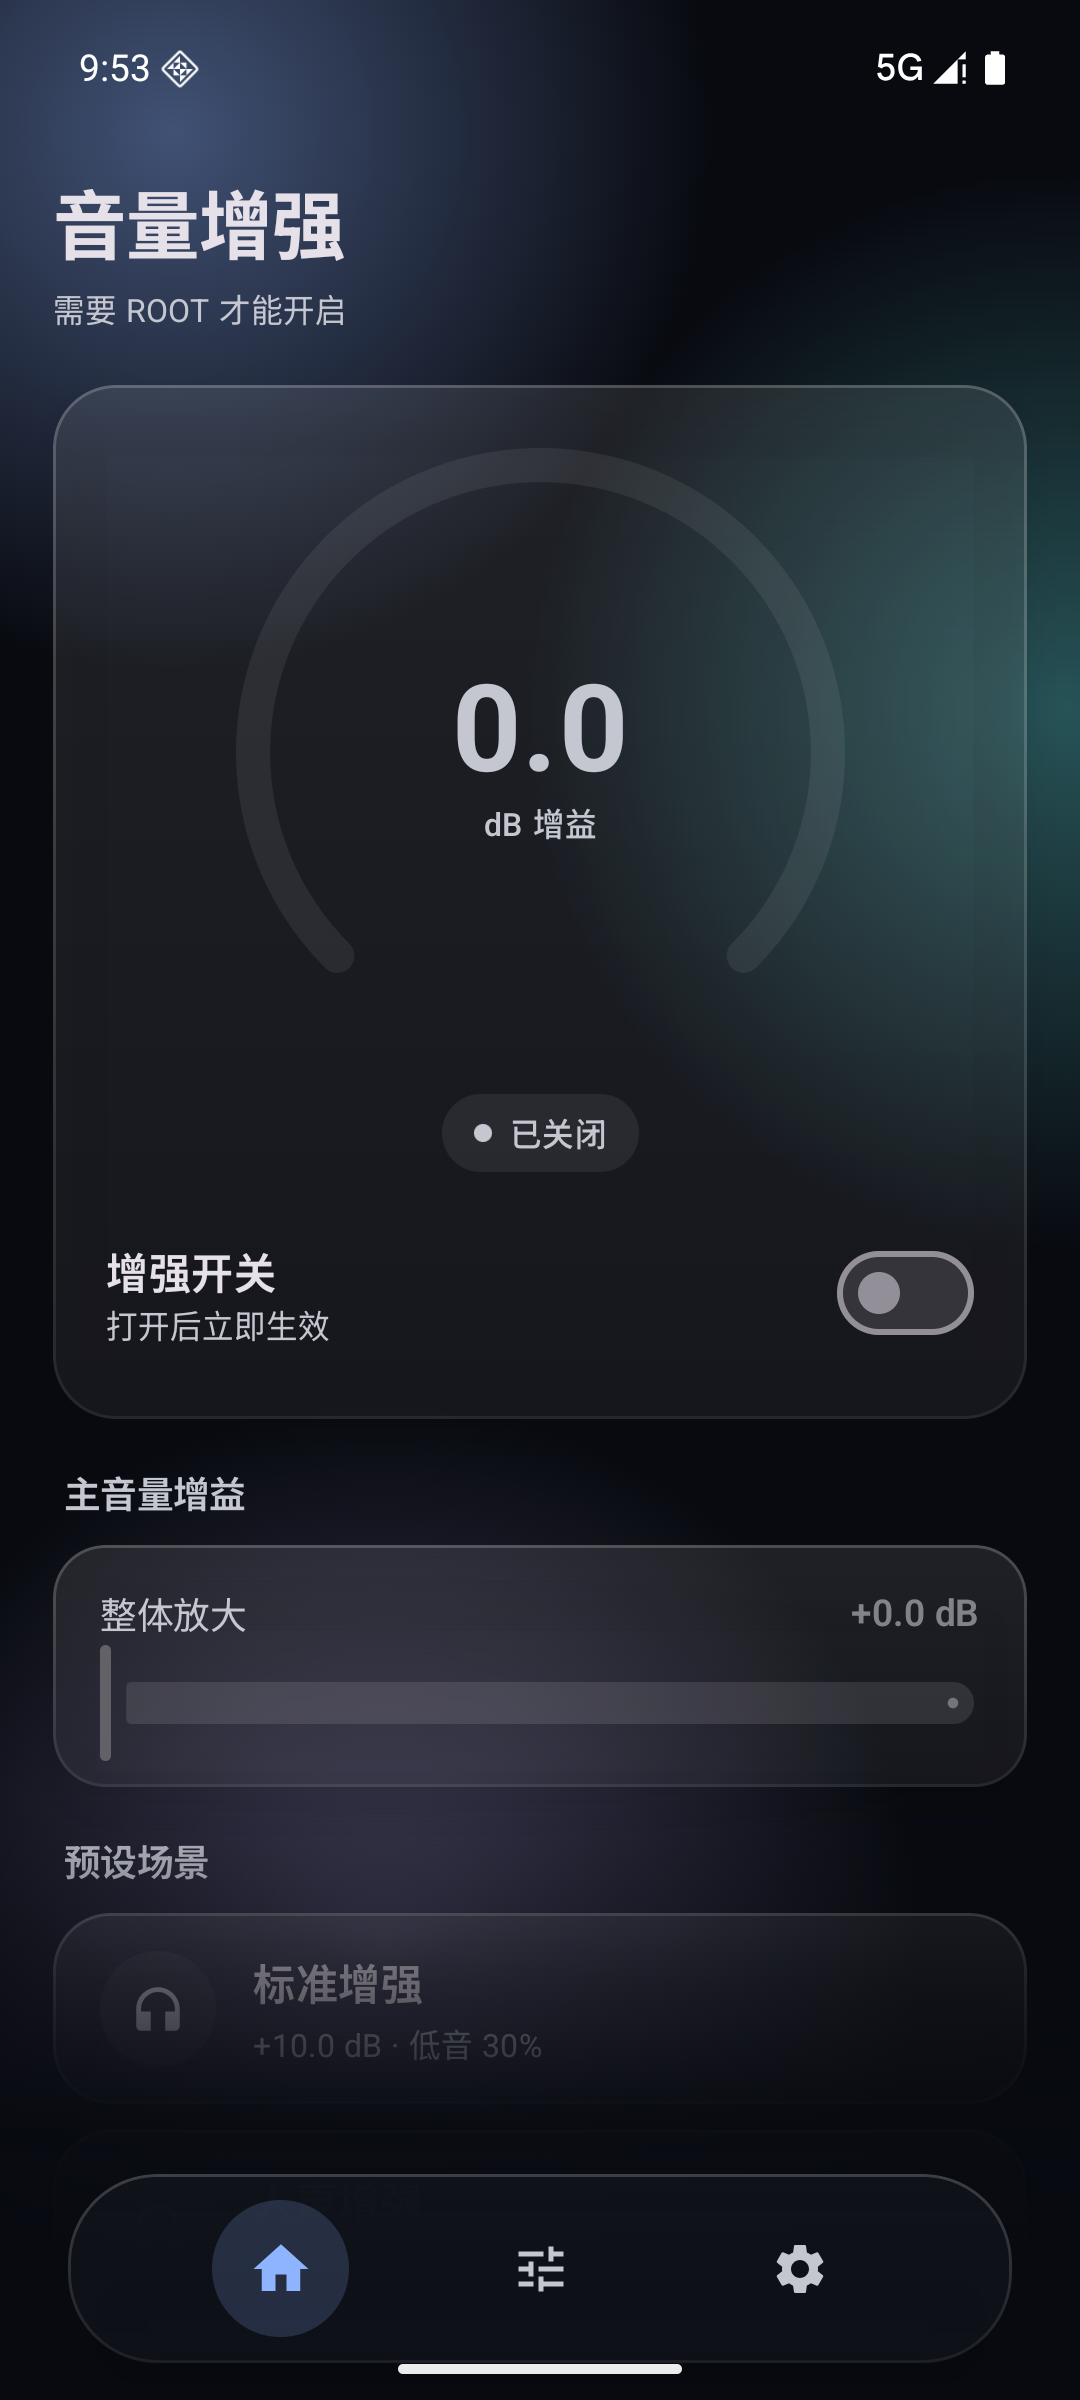
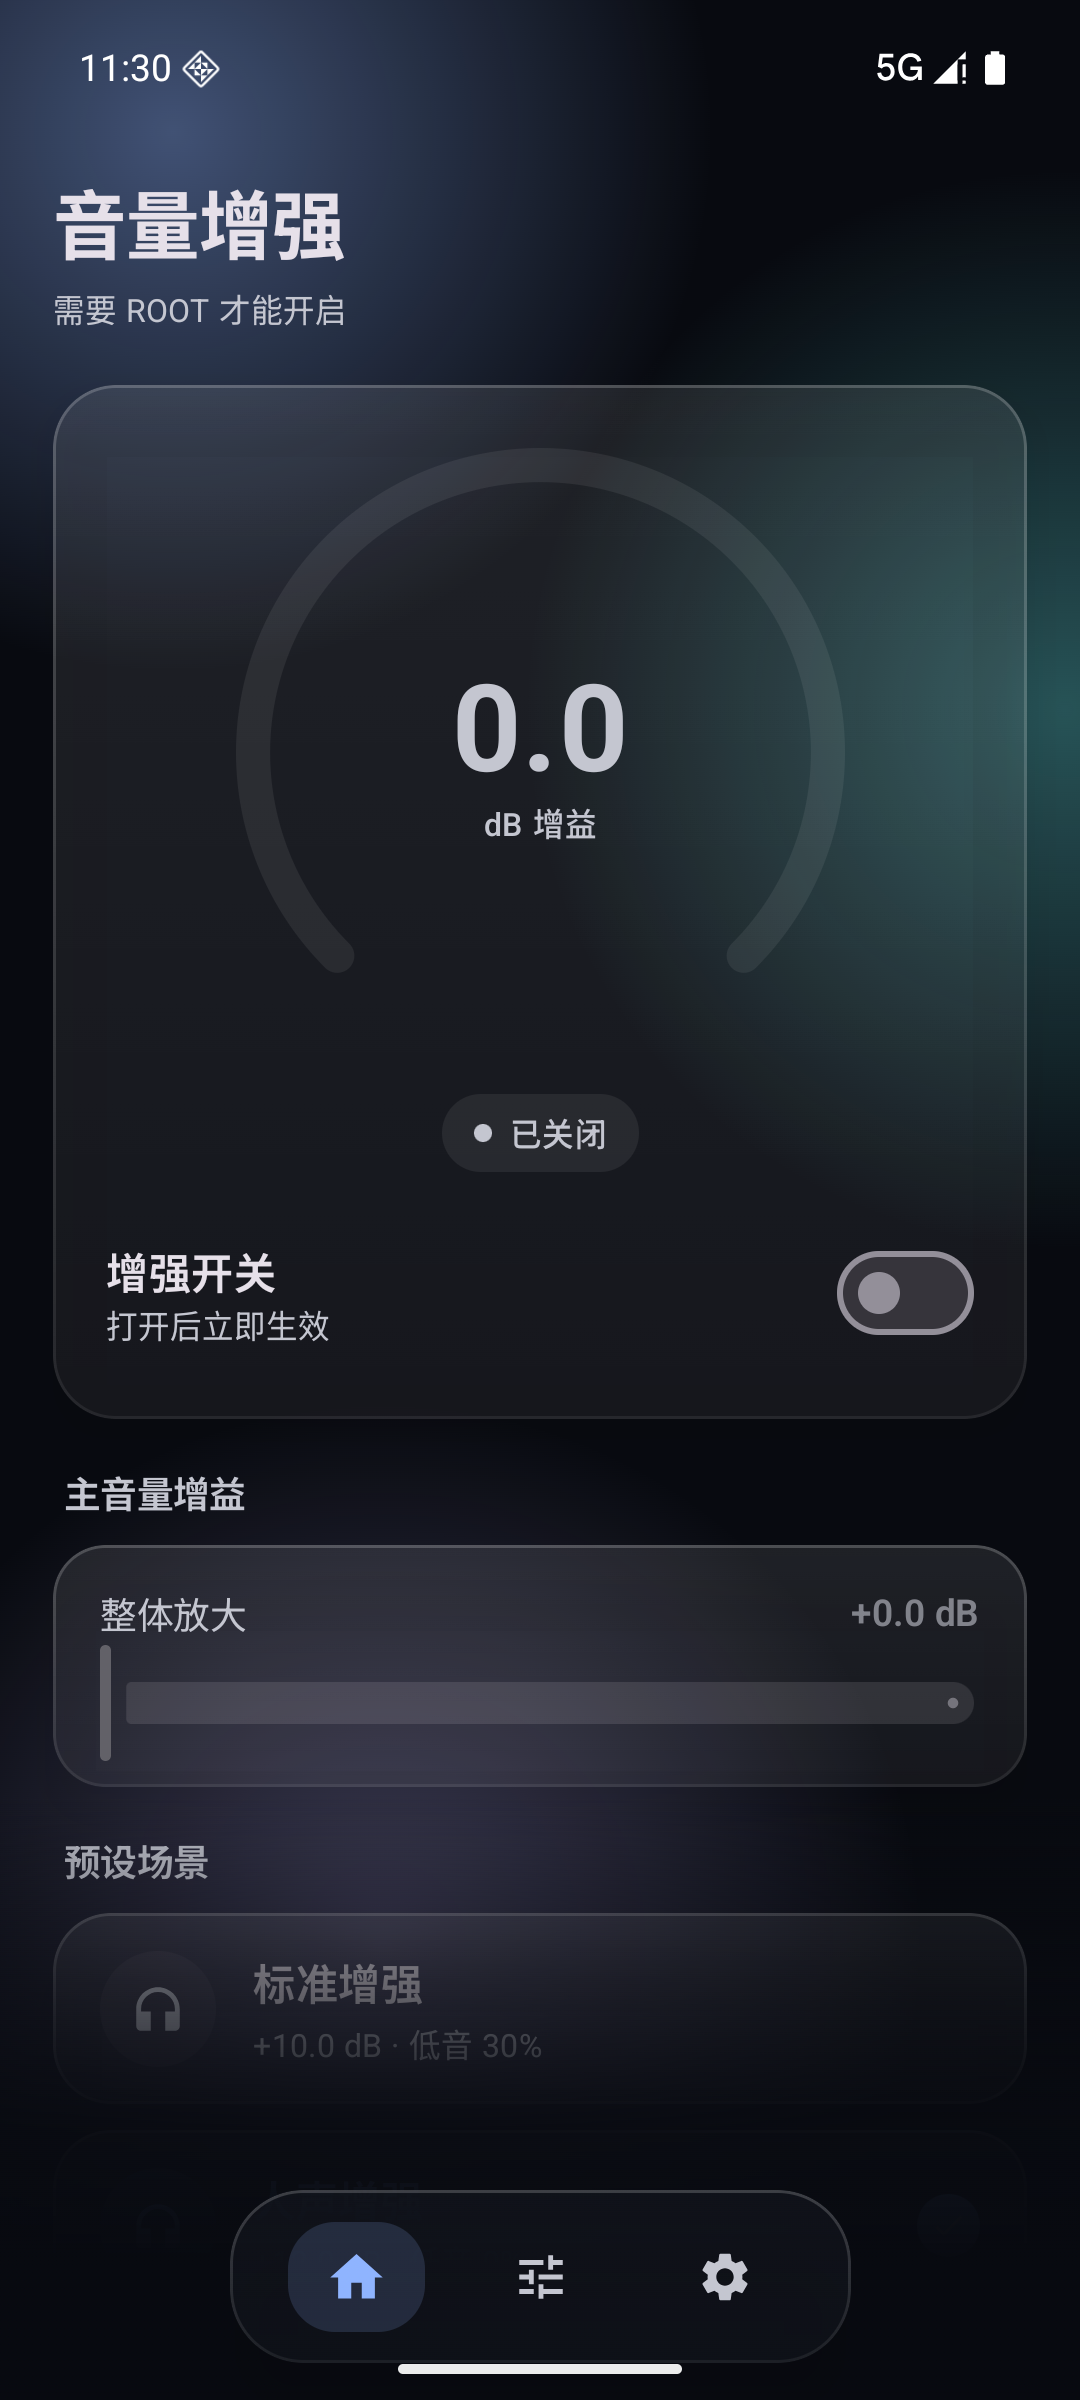
feat: Dock 收窄为胶囊选中态，扩大点击热区并拦截穿透触摸

diff --git a/app/src/main/java/com/volumeboost/app/ui/App.kt b/app/src/main/java/com/volumeboost/app/ui/App.kt
@@ -9,6 +9,7 @@ import androidx.compose.foundation.Canvas
 import androidx.compose.foundation.background
 import androidx.compose.foundation.border
 import androidx.compose.foundation.clickable
+import androidx.compose.foundation.gestures.detectTapGestures
 import androidx.compose.foundation.isSystemInDarkTheme
 import androidx.compose.foundation.layout.Arrangement
 import androidx.compose.foundation.layout.Box
@@ -87,6 +88,7 @@ import androidx.compose.ui.layout.onGloballyPositioned
 import androidx.compose.ui.layout.positionInRoot
 import androidx.compose.ui.platform.LocalDensity
 import androidx.compose.ui.platform.LocalLayoutDirection
+import androidx.compose.ui.input.pointer.pointerInput
 import androidx.compose.ui.text.font.FontFamily
 import androidx.compose.ui.text.font.FontWeight
 import androidx.compose.ui.text.style.TextAlign
@@ -321,12 +323,15 @@ private fun GlassDock(
     selected: Tab,
     onSelect: (Tab) -> Unit,
 ) {
-    val shape = RoundedCornerShape(34.dp)
+    // 外层圆角 28dp，内部选中态胶囊用 16dp 圆角 —— 二者同一套圆角语言，不会出现「圆角框里套一个正圆」
+    val shape = RoundedCornerShape(28.dp)
 
     Row(
         modifier
             .padding(horizontal = 26.dp, vertical = 14.dp)
-            .fillMaxWidth()
+            // 触摸拦截层：正好覆盖整块玻璃（含图标之间的空隙），空白处也吞掉点击，
+            // 不会穿透到底下的开关/预设卡片。子项 clickable 先消费事件，父层只兜底。
+            .pointerInput(Unit) { detectTapGestures { } }
             .glass(
                 shape = shape,
                 fillTop = 0.78f,
@@ -337,8 +342,8 @@ private fun GlassDock(
                 darkScale = 0.90f,
                 darkTint = Color(0xFF12151D),
             )
-            .padding(horizontal = 8.dp, vertical = 10.dp),
-        horizontalArrangement = Arrangement.SpaceEvenly,
+            .padding(horizontal = 14.dp, vertical = 7.dp),
+        horizontalArrangement = Arrangement.spacedBy(2.dp),
         verticalAlignment = Alignment.CenterVertically,
     ) {
         Tab.entries.forEach { item ->
@@ -351,7 +356,10 @@ private fun GlassDock(
     }
 }
 
-/** 纯图标 Dock：尺寸固定，没有文字，就不会被文字撑高、也不会留空 */
+/**
+ * 纯图标 Dock：尺寸固定，没有文字，就不会被文字撑高、也不会留空。
+ * 点击热区（68×52）明显大于视觉胶囊（52×42），不用瞄准也能点中。
+ */
 @Composable
 private fun DockItem(tab: Tab, selected: Boolean, onClick: () -> Unit) {
     val sel by animateFloatAsState(
@@ -364,22 +372,28 @@ private fun DockItem(tab: Tab, selected: Boolean, onClick: () -> Unit) {
         MaterialTheme.colorScheme.primary,
         sel,
     )
-    val pill = MaterialTheme.colorScheme.primary.copy(alpha = 0.18f * sel)
+    val pill = MaterialTheme.colorScheme.primary.copy(alpha = 0.16f * sel)
 
     Box(
         modifier = Modifier
-            .size(52.dp)
-            .clip(CircleShape)
-            .background(pill)
+            .size(width = 68.dp, height = 52.dp)
             .clickable(onClick = onClick),
         contentAlignment = Alignment.Center,
     ) {
-        Icon(
-            imageVector = tab.icon,
-            contentDescription = tab.label,
-            tint = tint,
-            modifier = Modifier.size((23f + 2f * sel).dp),
-        )
+        Box(
+            modifier = Modifier
+                .size(width = 52.dp, height = 42.dp)
+                .clip(RoundedCornerShape(18.dp))
+                .background(pill),
+            contentAlignment = Alignment.Center,
+        ) {
+            Icon(
+                imageVector = tab.icon,
+                contentDescription = tab.label,
+                tint = tint,
+                modifier = Modifier.size((22f + 2f * sel).dp),
+            )
+        }
     }
 }
 
@@ -1025,7 +1039,7 @@ private fun SettingsPage(
                 Preset.All.firstOrNull { it.id == state.presetId }?.label ?: state.presetId,
             )
             Spacer(Modifier.height(12.dp))
-            InfoRow("版本", "1.1.2")
+            InfoRow("版本", "1.1.3")
         }
 
         Spacer(Modifier.height(120.dp))
